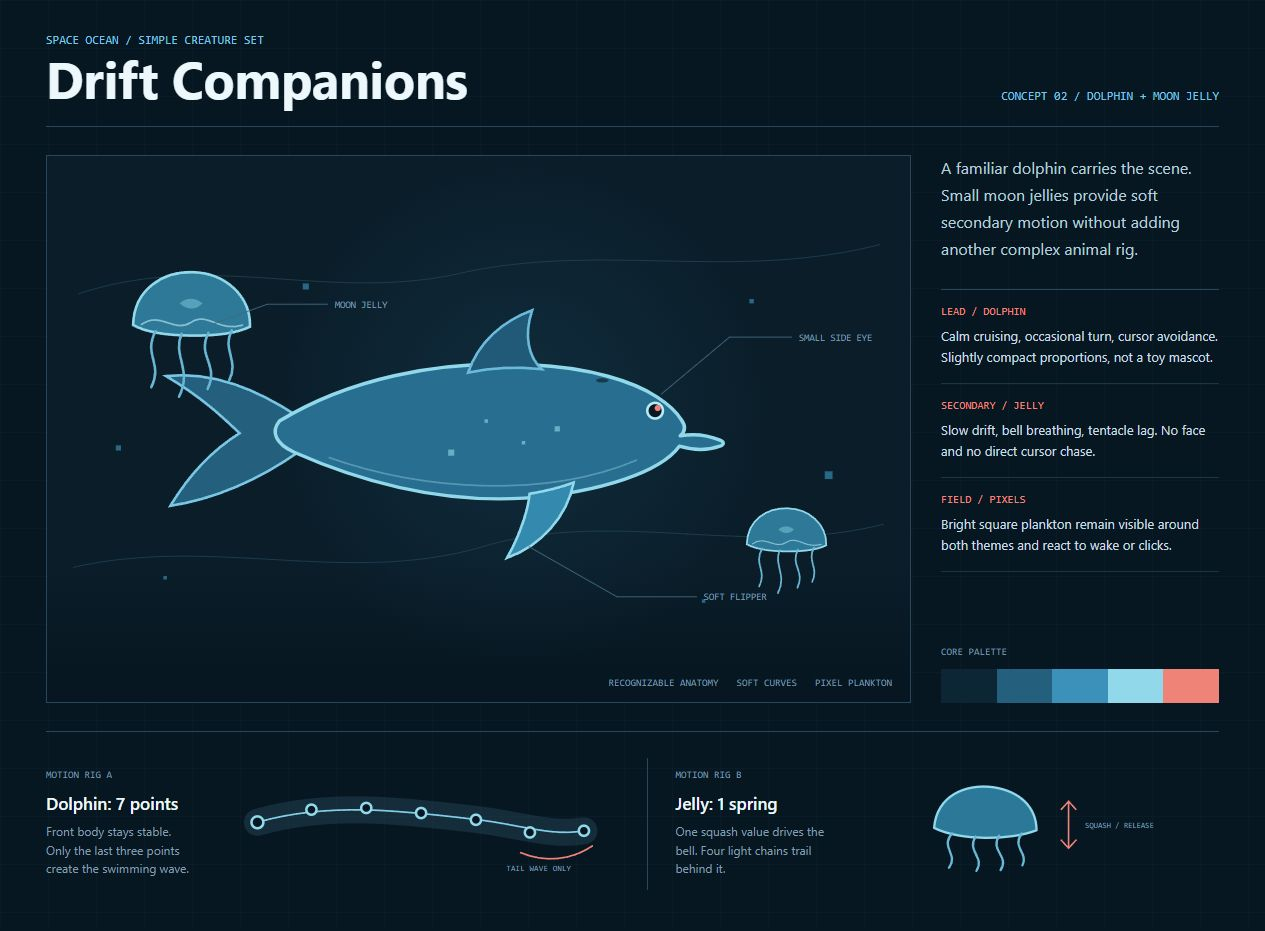
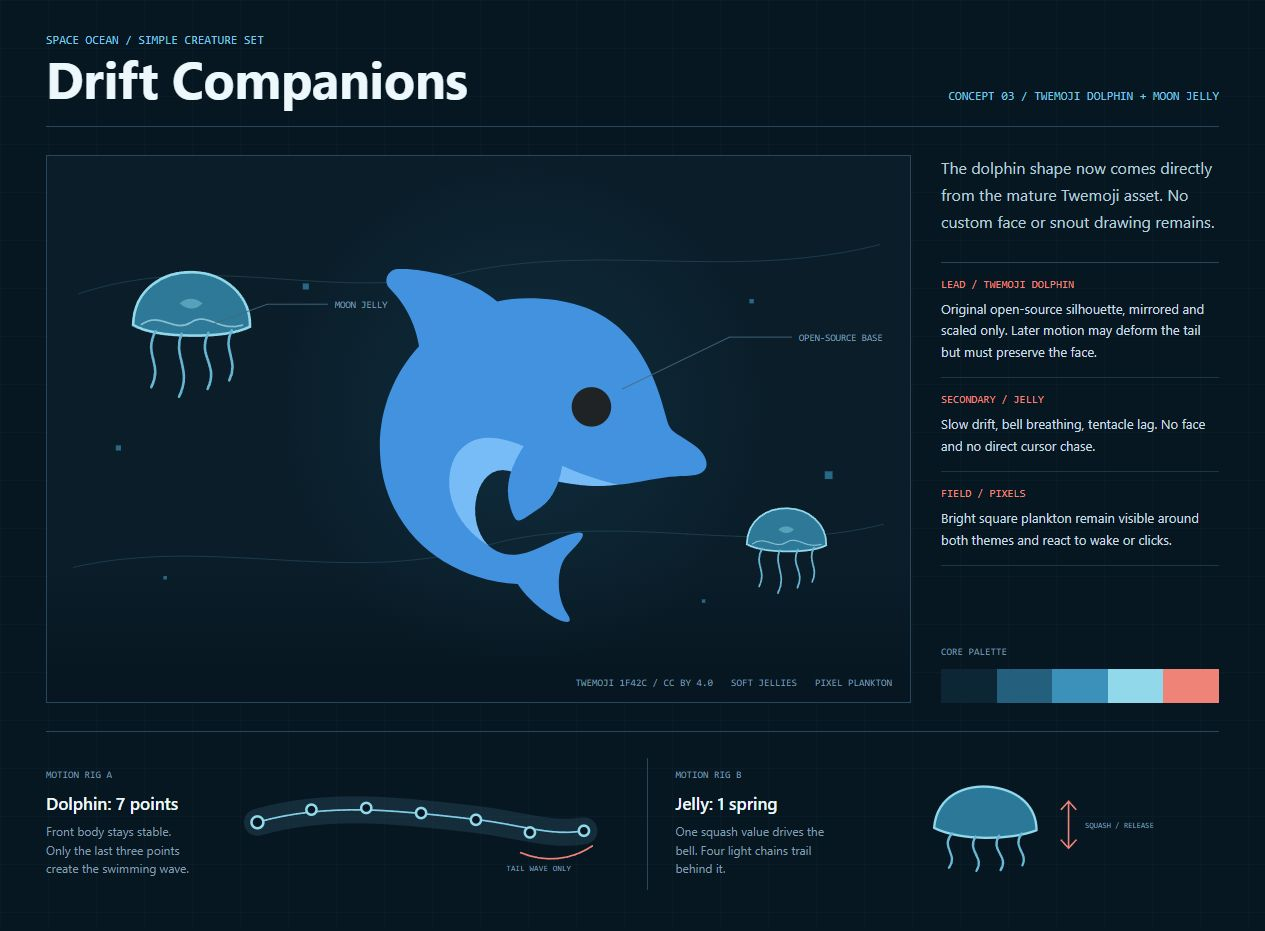
docs: replace custom dolphin with Twemoji reference

diff --git a/docs/concepts/space-ocean-creatures-v2.html b/docs/concepts/space-ocean-creatures-v2.html
@@ -217,7 +217,7 @@
           <p class="eyebrow">Space ocean / simple creature set</p>
           <h1>Drift Companions</h1>
         </div>
-        <span class="index">Concept 02 / dolphin + moon jelly</span>
+        <span class="index">Concept 03 / Twemoji dolphin + moon jelly</span>
       </header>
 
       <section class="layout">
@@ -237,42 +237,8 @@
               <rect x="738" y="458" width="4" height="4" />
             </g>
 
-            <g id="dolphin">
-              <path
-                d="M 272 247 C 225 216 174 194 119 200 C 161 225 184 247 204 266 C 172 286 145 315 124 350 C 180 341 229 318 273 287 C 253 277 249 260 272 247 Z"
-                fill="#245f7e"
-                stroke="#78c6e4"
-                stroke-width="3"
-              />
-              <path
-                d="M 250 252 C 327 205 430 181 540 187 C 610 190 660 207 686 224 C 700 233 709 242 714 250 C 720 258 719 264 713 269 C 730 266 747 269 759 274 C 764 276 764 279 759 281 C 745 286 729 286 712 281 C 691 310 623 334 533 341 C 433 347 344 322 267 288 C 245 278 240 264 250 252 Z"
-                fill="#286e91"
-                stroke="#91d8eb"
-                stroke-width="4"
-                stroke-linejoin="round"
-              />
-              <path
-                d="M 468 196 C 480 160 509 136 542 124 C 532 154 538 178 553 192 C 525 189 496 190 468 196 Z"
-                fill="#205a78"
-                stroke="#6bbad9"
-                stroke-width="3"
-              />
-              <path
-                d="M 590 323 C 582 363 552 396 513 410 C 531 378 538 349 539 336 C 557 333 574 329 590 323 Z"
-                fill="#3489ae"
-                stroke="#91d8eb"
-                stroke-width="3"
-              />
-              <path d="M 307 294 C 414 332 557 342 663 297" fill="none" stroke="#b8eaf5" stroke-width="2" opacity="0.32" />
-              <ellipse cx="623" cy="205" rx="7" ry="2.4" fill="#0c2635" opacity="0.72" />
-              <circle cx="684" cy="240" r="9" fill="#081721" stroke="#b8eaf5" stroke-width="3" />
-              <circle cx="687" cy="237" r="3.5" fill="#ef8378" />
-              <g fill="#91d8eb" opacity="0.6">
-                <rect x="568" y="258" width="6" height="6" />
-                <rect x="530" y="275" width="4" height="4" />
-                <rect x="487" y="250" width="4" height="4" />
-                <rect x="445" y="285" width="7" height="7" />
-              </g>
+            <g id="dolphin-reference" transform="translate(760 76) scale(-11.4 11.4)">
+              <image href="./vendor/twemoji-dolphin.svg" width="36" height="36" />
             </g>
 
             <g id="jelly-one" transform="translate(62 73)">
@@ -298,22 +264,20 @@
             </g>
 
             <g font-family="Consolas, monospace" font-size="11" fill="#7799ab">
-              <path d="M 691 221 L 770 155 L 842 155" fill="none" stroke="#426a80" />
-              <text x="850" y="159">SMALL SIDE EYE</text>
-              <path d="M 538 397 L 640 455 L 732 455" fill="none" stroke="#426a80" />
-              <text x="740" y="459">SOFT FLIPPER</text>
+              <path d="M 646 215 L 770 155 L 842 155" fill="none" stroke="#426a80" />
+              <text x="850" y="159">OPEN-SOURCE BASE</text>
               <path d="M 173 140 L 236 117 L 306 117" fill="none" stroke="#426a80" />
               <text x="314" y="121">MOON JELLY</text>
             </g>
           </svg>
-          <div class="stage-footer"><span>RECOGNIZABLE ANATOMY</span><span>SOFT CURVES</span><span>PIXEL PLANKTON</span></div>
+          <div class="stage-footer"><span>TWEMOJI 1F42C / CC BY 4.0</span><span>SOFT JELLIES</span><span>PIXEL PLANKTON</span></div>
         </div>
 
         <aside>
           <div>
-            <p class="summary">A familiar dolphin carries the scene. Small moon jellies provide soft secondary motion without adding another complex animal rig.</p>
+            <p class="summary">The dolphin shape now comes directly from the mature Twemoji asset. No custom face or snout drawing remains.</p>
             <div class="roles">
-              <div class="role"><strong>Lead / dolphin</strong><span>Calm cruising, occasional turn, cursor avoidance. Slightly compact proportions, not a toy mascot.</span></div>
+              <div class="role"><strong>Lead / Twemoji dolphin</strong><span>Original open-source silhouette, mirrored and scaled only. Later motion may deform the tail but must preserve the face.</span></div>
               <div class="role"><strong>Secondary / jelly</strong><span>Slow drift, bell breathing, tentacle lag. No face and no direct cursor chase.</span></div>
               <div class="role"><strong>Field / pixels</strong><span>Bright square plankton remain visible around both themes and react to wake or clicks.</span></div>
             </div>

diff --git a/docs/V0.6_CREATURE_CONCEPT_REVIEW.md b/docs/V0.6_CREATURE_CONCEPT_REVIEW.md
@@ -26,18 +26,33 @@
 - `docs/concepts/space-ocean-creatures-v2.html`
 - `docs/concepts/space-ocean-creatures-v2.png`
 
+结论：否决自绘海豚部分，水母与环境层保留。
+
+原因：自绘海豚的额头、眼睛和短吻无法形成可信的面部结构。两次局部修正分别产生鸟喙感和吸嘴感，不再继续调整该路径。
+
+## Concept 03：Twemoji Dolphin + Moon Jelly
+
+文件：
+
+- `docs/concepts/space-ocean-creatures-v2.html`
+- `docs/concepts/space-ocean-creatures-v2.png`
+- `docs/concepts/vendor/twemoji-dolphin.svg`
+- `docs/concepts/vendor/TWEMOJI_ATTRIBUTION.md`
+
 候选组合：
 
-- 主生物：以瓶鼻海豚为原型，轻微缩短比例，保留圆额、短吻、背鳍、胸鳍与尾鳍等识别点。
+- 主生物：直接使用 Twemoji `1F42C` 的成熟 Q 版海豚造型，不再自绘面部和吻部。
 - 次生物：无表情的月水母，只依靠钟罩曲线、内部结构与触手产生亲和感。
 - 环境层：恢复并保留方形像素浮游物，作为独立特效层，不参与生物解剖造型。
+
+许可：Twemoji 图形采用 CC BY 4.0；概念板仅镜像和缩放原始 SVG。若后续进入主页，必须保留署名并标明变形修改。
 
 ## 动画复杂度约束
 
 海豚：
 
 - 采用 7 个控制点。
-- 头部到身体前段保持稳定，仅让尾部 3 个控制点传播推进波。
+- 头部与面部权重固定，仅让尾部区域传播推进波。
 - 鼠标只产生斥力，不追逐鼠标。
 
 水母：
@@ -53,4 +68,3 @@
 - 尖刺状硬鳍、武器化轮廓和无法解释的附肢。
 - 用粒子、发光或后处理掩盖不成立的基础剪影。
 - 在独立动画 Demo 通过前合入 `develop`。
-

diff --git a/docs/DEVELOPMENT_LOG.md b/docs/DEVELOPMENT_LOG.md
@@ -534,14 +534,15 @@
 - 用户否决直接实现的程序化鱼，要求恢复“概念图审核 -> 独立动画 Demo -> 主页集成”的三段式门禁。
 - 将被否决的实现保存到 `feature/v0.6-procedural-fish` 对应 stash，主页工作区恢复到 `develop` 的 v0.5 状态。
 - 在独立 `docs/v0.6-creature-concept` 分支制作第一版自创鱼类概念 `Lumen Drifter`，内部复核后判定不再推进。
-- 按用户建议改用成熟生物原型，制作第二版 `Drift Companions`：瓶鼻海豚作为低频主生物，无表情月水母作为高频软体生物，方形像素浮游物保持独立特效层。
+- 按用户建议改用成熟生物原型，制作第二版 `Drift Companions`；用户指出自绘海豚短吻仍存在鸟喙感和吸嘴感，因此否决自绘海豚部分。
+- 第三版直接采用 Twemoji `1F42C` 原始开源 SVG 作为海豚造型，概念板仅执行镜像和缩放；将 CC BY 4.0 来源、署名与后续修改说明保存在 `docs/concepts/vendor/TWEMOJI_ATTRIBUTION.md`。
 - 将动画复杂度收敛为海豚 7 个控制点和水母 1 个钟罩弹簧值，避免再次依赖复杂的整身动态轮廓。
 - 在 1280 x 720 浏览器视口完成概念板检查，完整页面宽 1265px、高 931px，无横向溢出，3 个 SVG 均正常渲染。
 
 当前现象：
 
 - 主页源码未修改，`develop` 仍保持 v0.5。
-- `Concept 02` 仅处于静态审核状态，尚无动画 Demo。
+- `Concept 03` 仅处于静态审核状态，尚无动画 Demo；海豚资产实际加载成功，浏览器 console warning/error 为空。
 - 概念板预览地址为 `http://127.0.0.1:4330/space-ocean-creatures-v2.html`。
 
 下一步最小动作：
